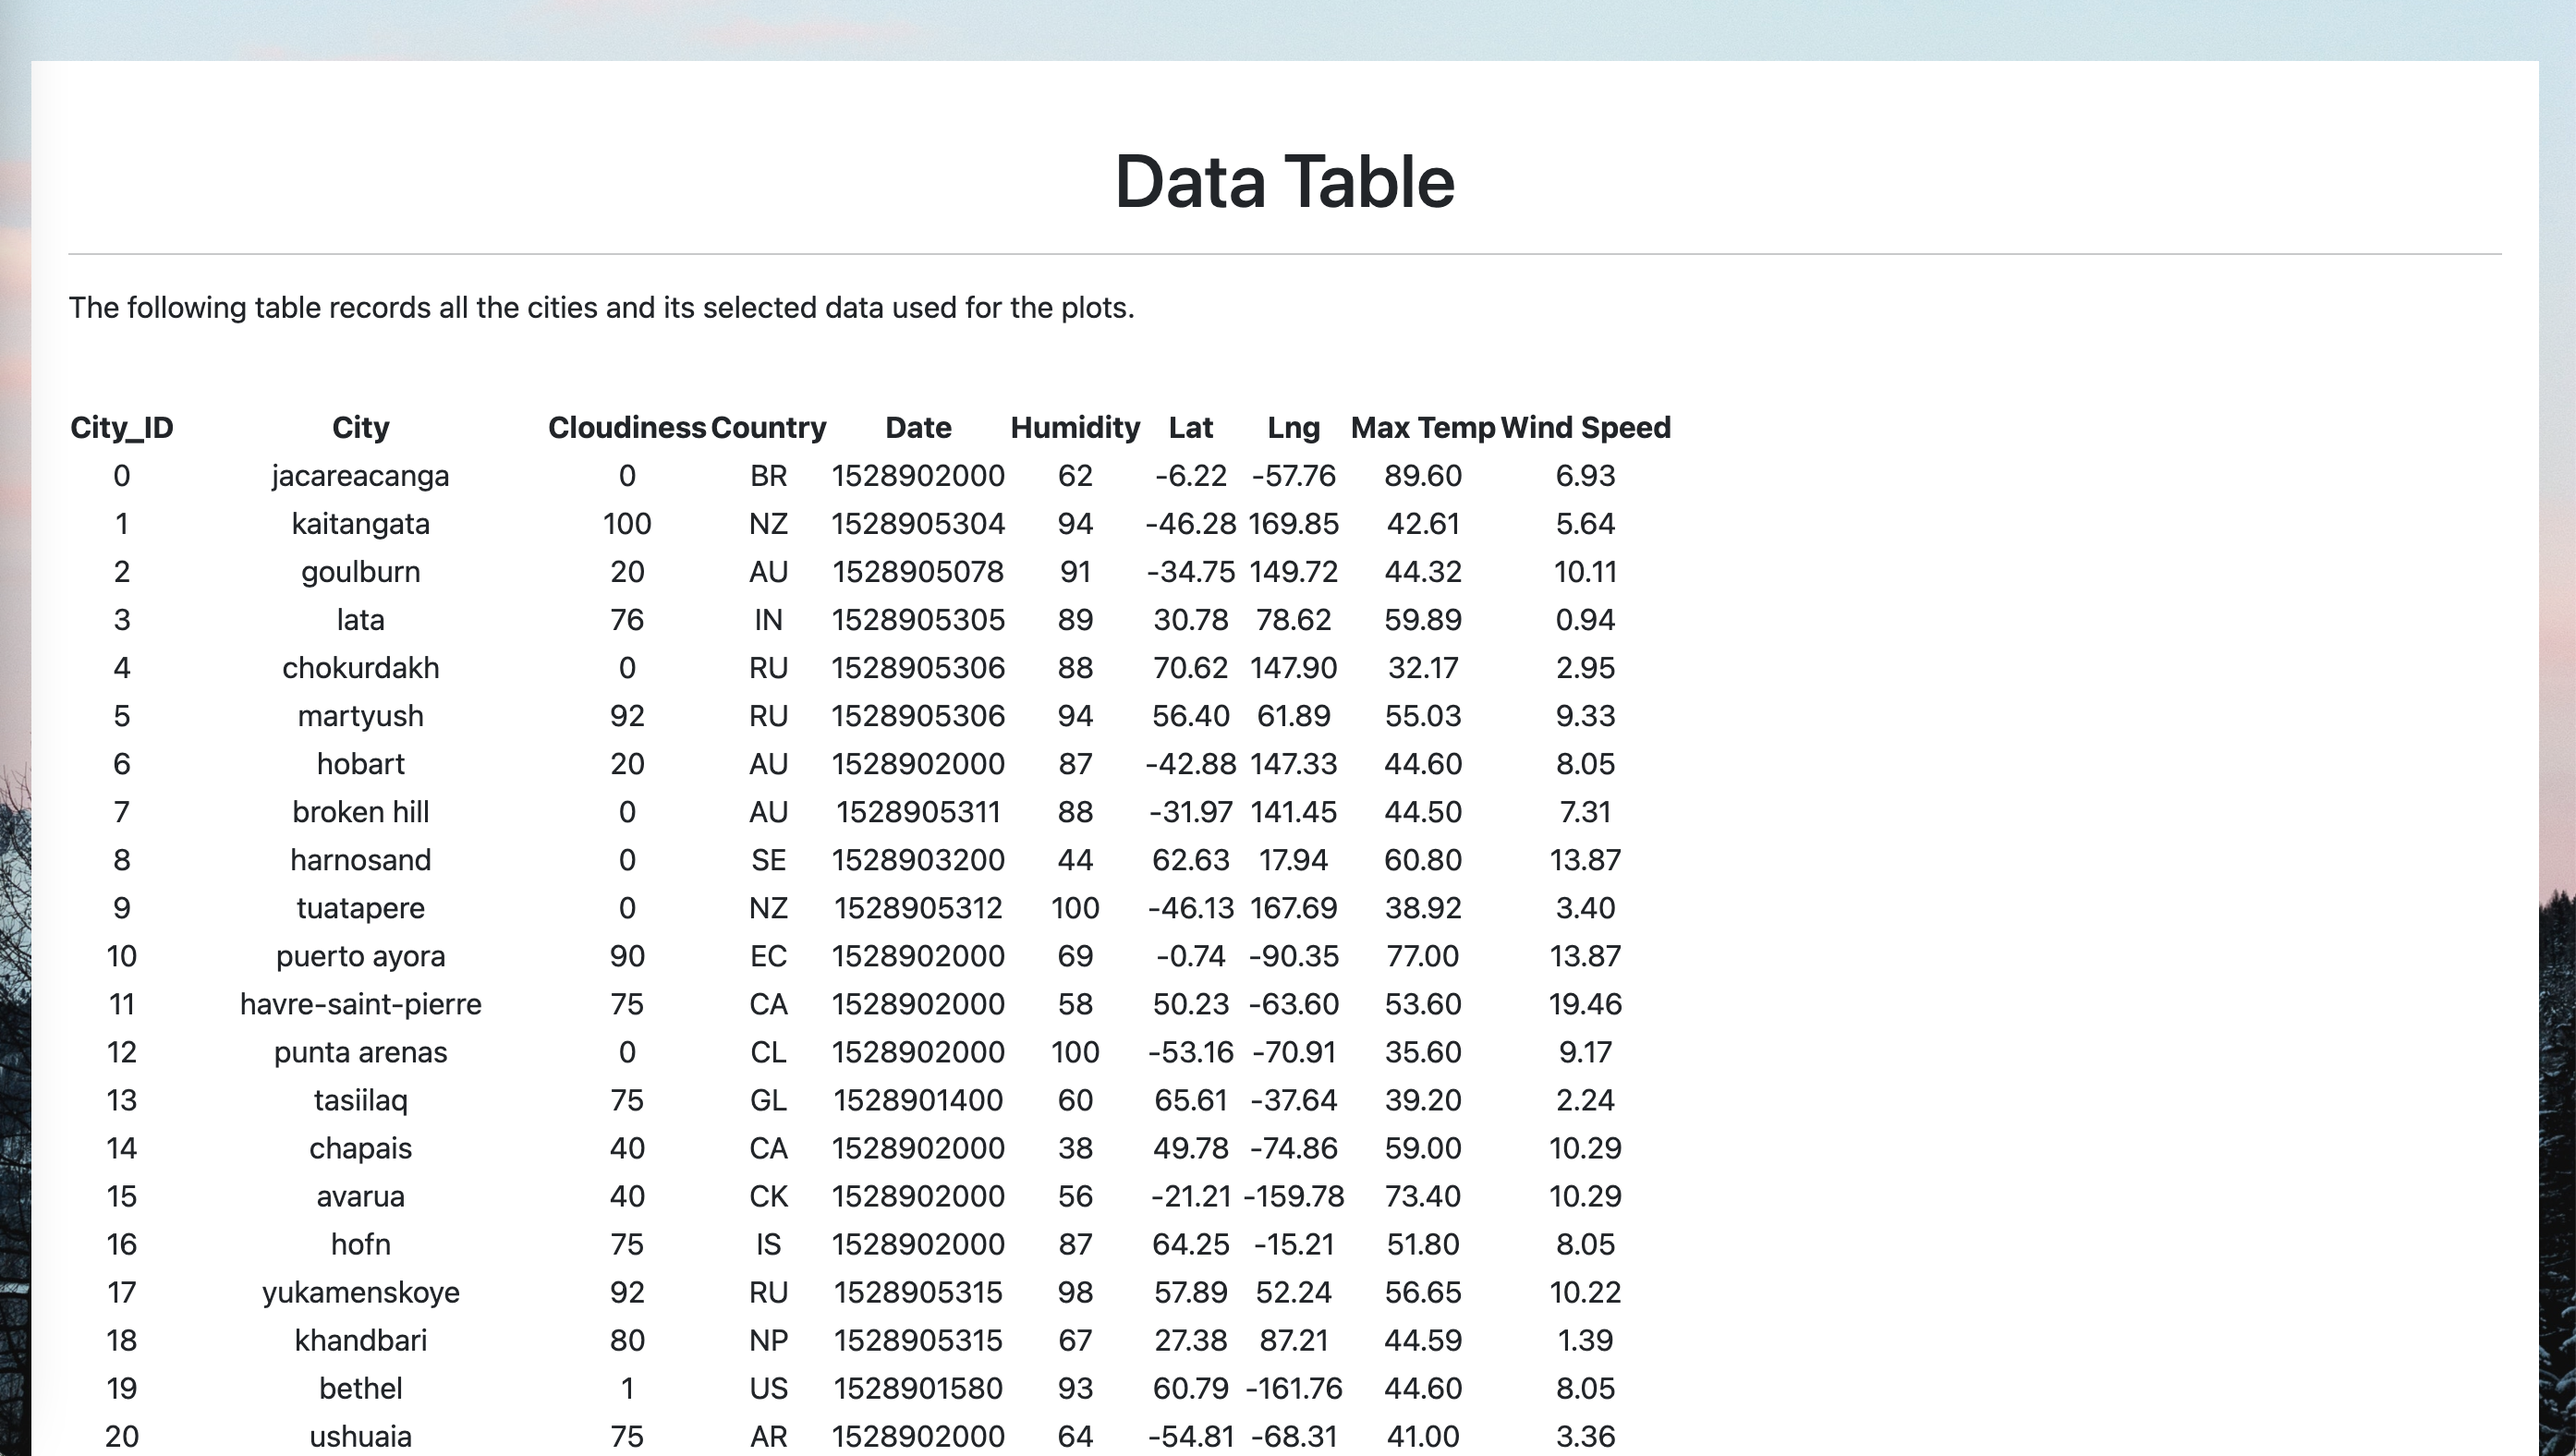
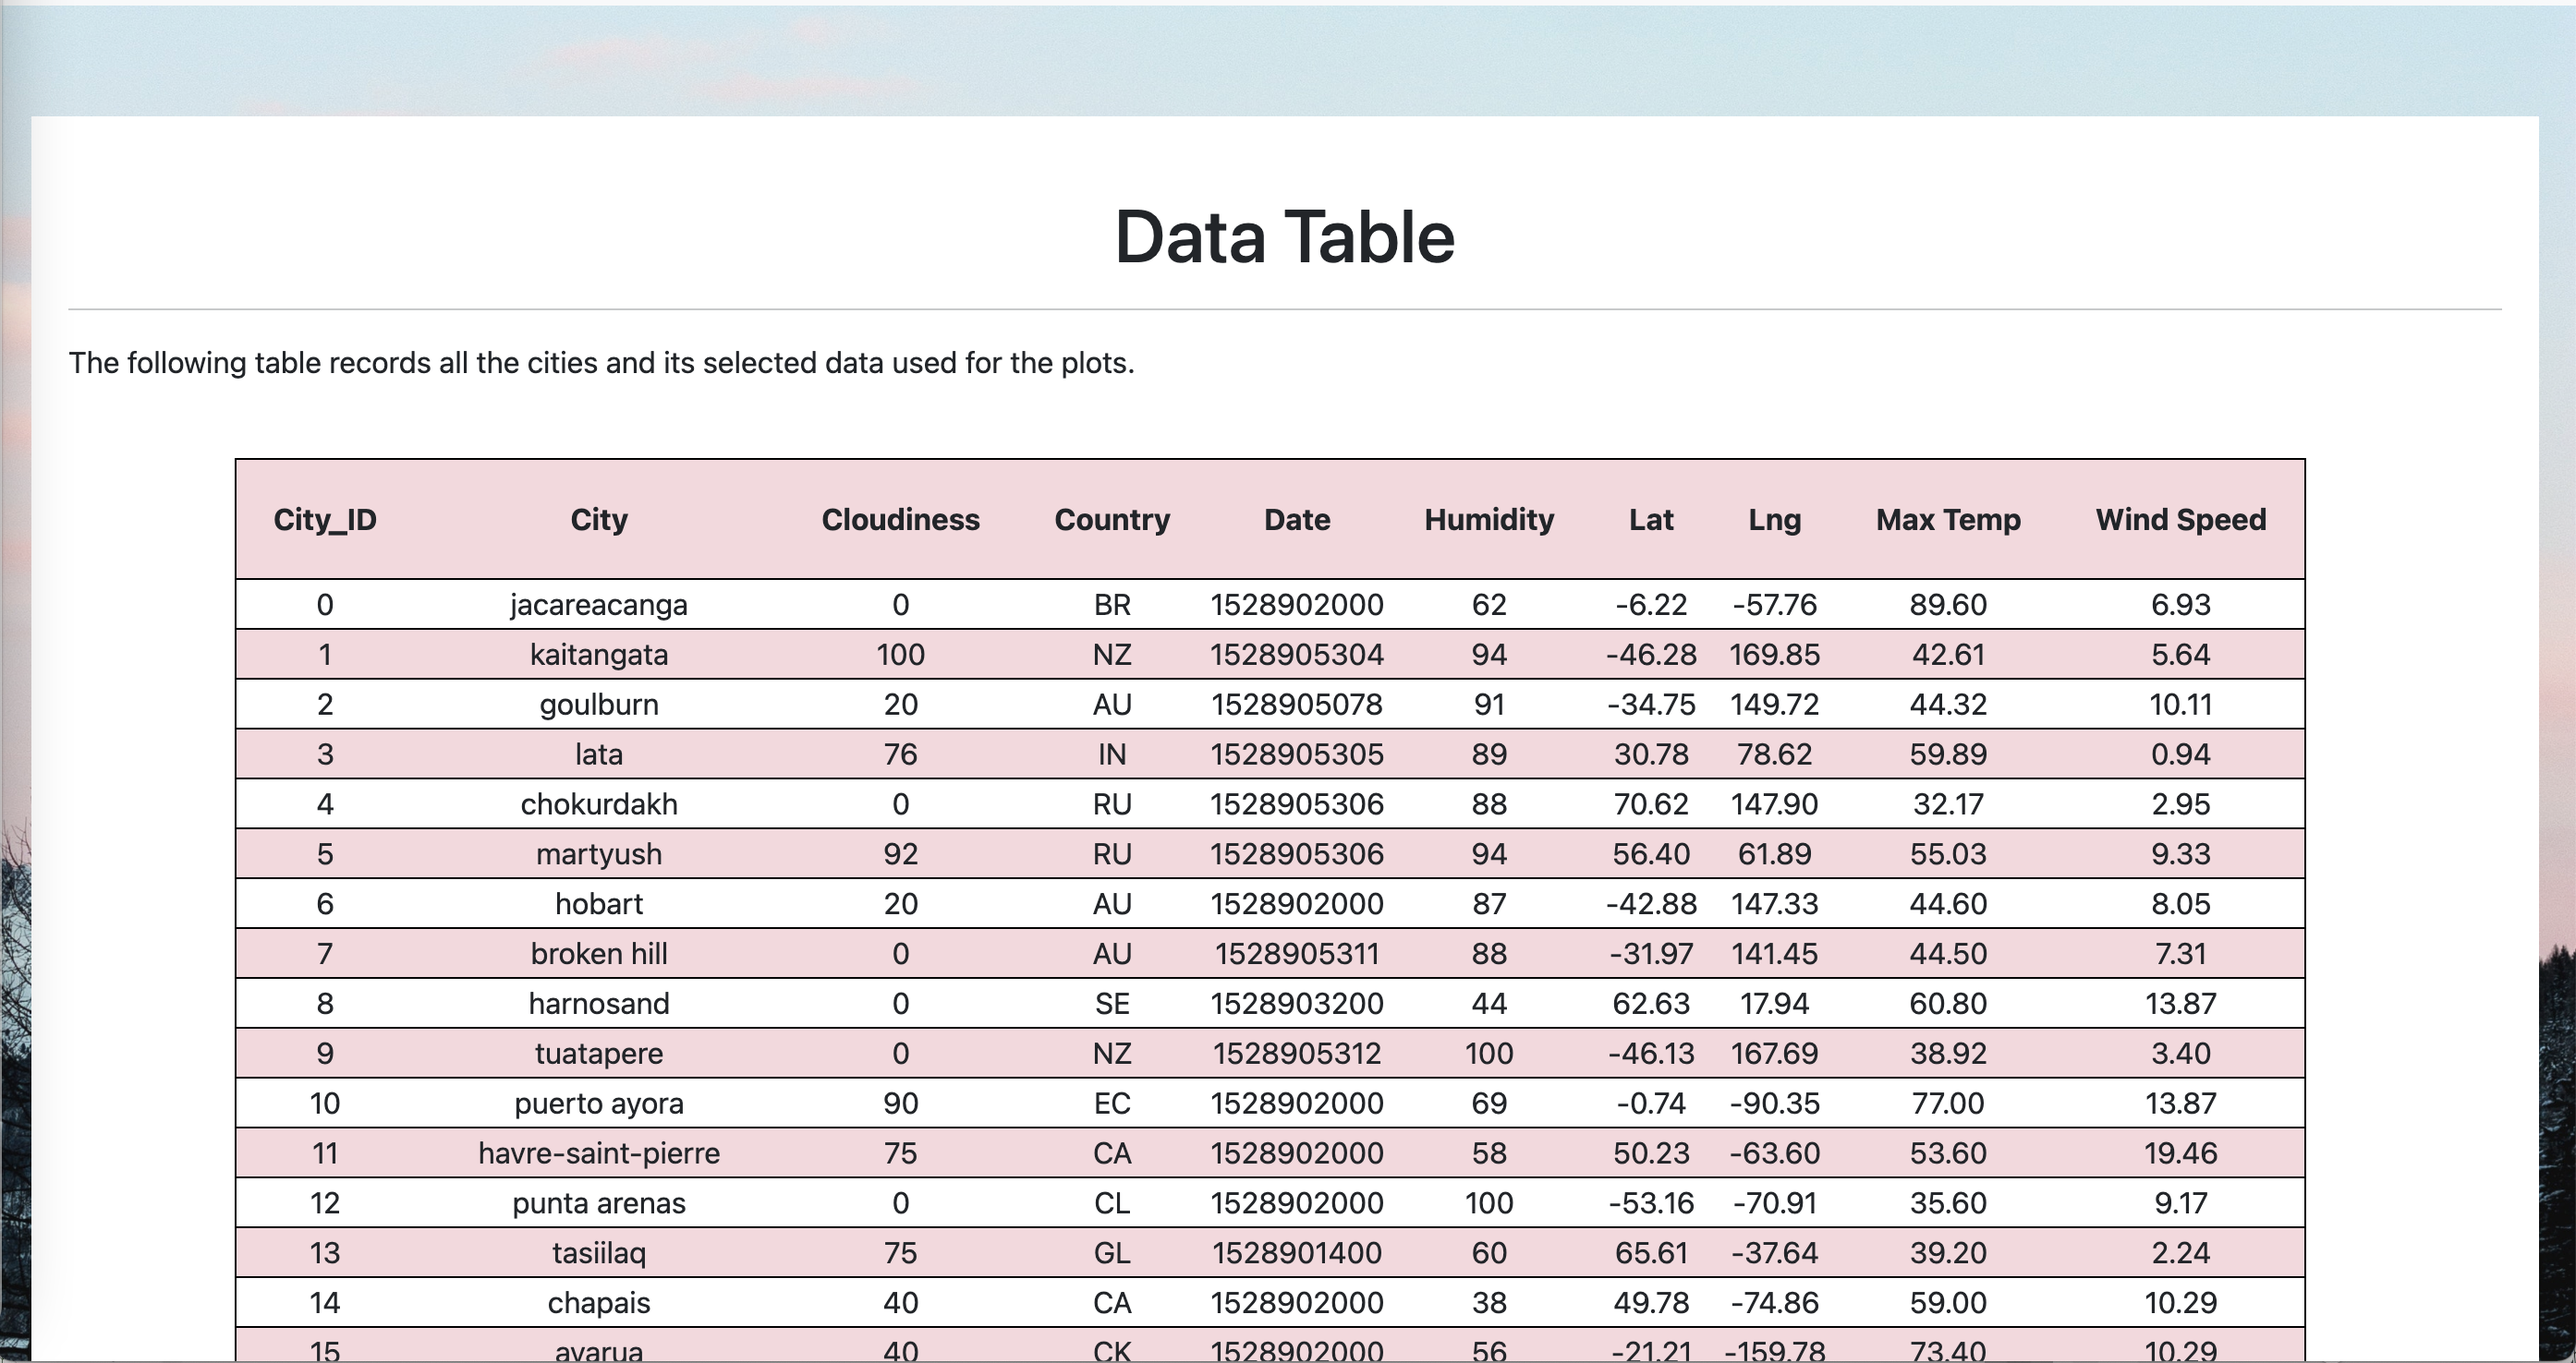
readme updated

diff --git a/Web_Visualisations/Scripts/data.html b/Web_Visualisations/Scripts/data.html
@@ -47,8 +47,8 @@
 <hr>
 <p>The following table records all the cities and its selected data used for the plots.</p>
 <br>
-<table class="dataframe" style="text-align: center;">
-  <thead>
+<table class="dataframe">
+  <thead class="head">
     <tr>
       <th>City_ID</th>
       <th>City</th>
@@ -62,8 +62,8 @@
       <th>Wind Speed</th>
     </tr>
   </thead>
-  <tbody>
-    <tr style="text-align: center;">
+  <tbody class="dataframe">
+    <tr class="dataframe">
       <td>0</td>
       <td>jacareacanga</td>
       <td>0</td>

diff --git a/Web_Visualisations/Scripts/style.css b/Web_Visualisations/Scripts/style.css
@@ -44,7 +44,29 @@ img{
 .header{
     text-align: centre;
 }
-
+.dataframe{
+    text-align: center;
+    margin-left: 90px;
+    border: 1px solid black;
+    border-collapse: collapse;
+}
+.head{
+    margin-right: 20px;
+}
+tr{
+    border: 1px solid black;
+    background-color: rgb(247, 216, 221);
+    
+}
+tr:nth-child(odd){
+    border: 1px solid black;
+    background-color:white;
+    
+}
+th{
+    background-color:rgb(247, 216, 221);
+    padding:20px;
+}
 
 
 
